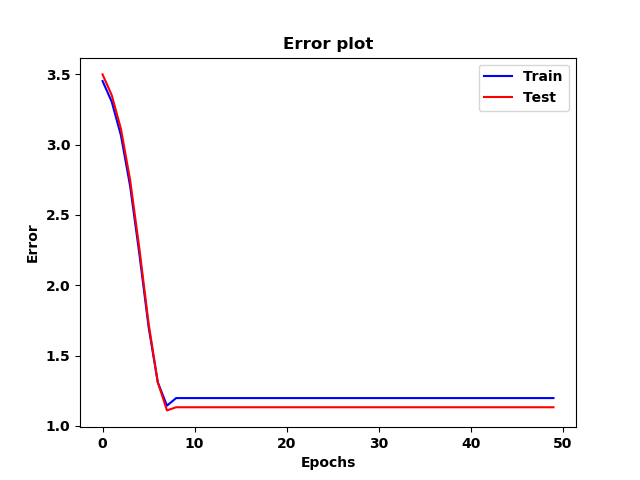
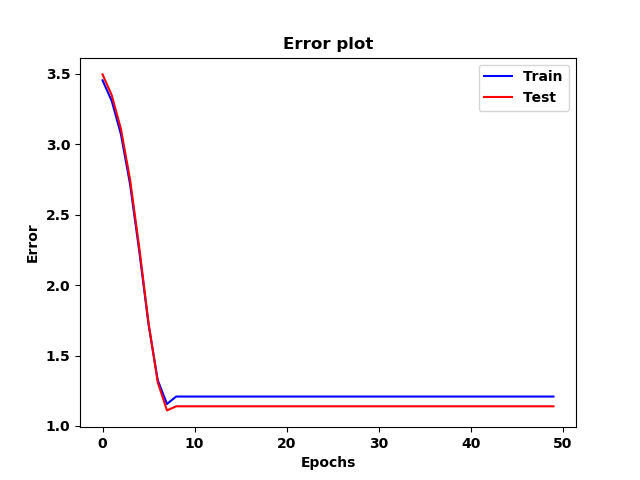
Samples

Changed region(s): [[0.25, 0.8125, 0.875, 0.875], [0.0625, 0.125, 0.125, 0.1875]]

diff --git a/Samples/Python/Movie Recommendation - Latent Factor Based Engine/engine.py b/Samples/Python/Movie Recommendation - Latent Factor Based Engine/engine.py
@@ -151,28 +151,28 @@ class recommender(object):
                 # Add the error to the total error
                 fTotalError += fErr
             
-            # If it is not the first epoch and the training error is higher
-            # than in the previous epoch, reduce the learning rate to 0
-            if self.fTrainingError != None:
-                
-                # If the training error is worse, then reverse the update
-                if self.fTrainingError <= fTotalError:
+            # If it is not the first epoch, set the recorded train error to double
+            if self.fTrainingError == None:
+                self.fTrainingError = fTotalError * 2
+            
+            # If the training error is worse than the previous epoch's
+            # set the learning rate to 0  
+            if self.fTrainingError <= fTotalError:
 
-                    # Set learning rate to 0
-                    self.fLr = 0
-
-            # If the learning rate is not zero apply gradient decent  
-            if self.fLr != 0:
+                self.fLr = 0
+            
+            # Othewise update the latent factors
+            else:
                 # SGD update latent factors 
                 U -= self.fLr * fTotalGradU
                 V -= self.fLr * fTotalGradV
-
-                # Update the training error
-                self.fTrainingError = fTotalError
             
                 # Create the prediction matrix
                 self.mPreds = np.dot(U, V.T)
             
+                # Update the training error
+                self.fTrainingError = fTotalError
+                
             # Calculate the Train Error
             iRatingCount = 0
             fTrainRMSE = 0
@@ -298,7 +298,7 @@ class recommender(object):
             sMovie = self.dictNames[str(iId)]
             
             lRecommendations.append(sMovie)
-            
+        
         return lRecommendations
     
         
@@ -339,5 +339,8 @@ if __name__ == "__main__":
             plot = True)
     
     # Make recommendations based on a user_id
-    latfactEngine.recommend('10')
+    lRecommendations = latfactEngine.recommend('10')
     
+    # Print recommendations
+    print('Recommended movies: ')
+    print(*lRecommendations, sep = '\n')
